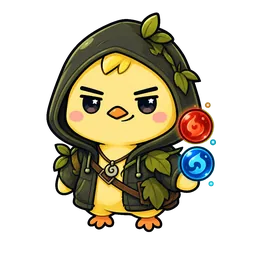
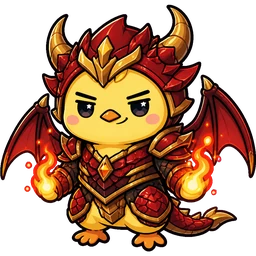
서바이벌: 프싱을 쉬바나 구조로 — 분노 게이지·용 변신 패시브 + 쌍둥이 이빨 + 새 그림 + 시험 + 패치노트
Claude-Session: https://claude.ai/code/session_018GzTivP446Z4KhefLmvcv5

diff --git a/tests/survivors_shyvana_test.py b/tests/survivors_shyvana_test.py
@@ -1,0 +1,68 @@
+# -*- coding: utf-8 -*-
+"""🐲 프싱 「쉬바나 코스프레」 검증 — 분노 게이지 · 용 변신 · 🔥 쌍둥이 이빨.  사용: python3 tests/survivors_shyvana_test.py
+원본 survivors.html 은 건드리지 않고 임시 사본(survivors_x.html)에만 훅을 꽂는다."""
+import asyncio, sys, os
+sys.path.insert(0, os.path.dirname(os.path.abspath(__file__)))
+import sv_harness as H
+from playwright.async_api import async_playwright
+FAILS = []; N = [0]
+def check(name, cond, extra=''):
+    N[0] += 1
+    print(('PASS ' if cond else 'FAIL ') + name + ((' — ' + str(extra)) if extra != '' else ''), flush=True)
+    if not cond: FAILS.append(name)
+
+async def main():
+    H.make_copy(); srv = H.Srv()
+    async with async_playwright() as p:
+        b = await H.launch(p)
+        ctx, pg, errs = await H.new_page(b, srv.port)
+        # ── 1. 시작 상태 · 게이지가 피해·처치로 오른다
+        r = await pg.evaluate("""()=>{const x=__p6x,o={};x.CH_set('psg');x.start();const S=x.S;
+          o.init={shv:x.CH.shv,w:Object.keys(S.w),rg:S.rg,dT:S.dT,camp:x.CH.camp};
+          const e=x.spawnEnemy(0,1);e.hp=e.mhp=1e9;e.x=S.p.x+500;e.y=S.p.y;
+          S.rgB=2.5;x.hurt(e,5);o.hit=S.rg;
+          for(let i=0;i<50;i++)x.hurt(e,5);o.burst=S.rg;   // 한꺼번에 때려도 버킷이 막는다
+          S.rg=0;S.rgB=2.5;const k=x.spawnEnemy(0,1);k.hp=1;k.x=S.p.x+500;k.y=S.p.y;x.hurt(k,50);o.kill=S.rg;
+          return o}""")
+        check('시작: 쉬바나 패시브(shv) · camp 없음 · 시작 무기 twin · 게이지 0', r['init']['shv'] == 1 and not r['init']['camp'] and r['init']['w'] == ['twin'] and r['init']['rg'] == 0 and r['init']['dT'] == 0, r['init'])
+        check('피해를 주면 게이지가 오른다', r['hit'] > 0, r['hit'])
+        check('한꺼번에 때려도 흡수량 상한(버킷)이 있다', r['burst'] <= 2.6, r['burst'])
+        check('처치하면 게이지가 오른다(처치 +1 이상)', r['kill'] >= 1, r['kill'])
+        # ── 2. 가득 차면 변신 · 크기 · 이동속도 · 화염 오라 · 받는 피해 감소
+        r = await pg.evaluate("""()=>{const x=__p6x,o={};x.CH_set('psg');x.start();const S=x.S;S.w={};S.p.hp=S.p.mhp=1e6;
+          const walk=sec=>{const x0=S.p.x;x.keys={KeyD:true};for(let i=0;i<Math.round(sec*30);i++)x.update(1/30);x.keys={};return S.p.x-x0;};
+          o.walk0=walk(.5);
+          const e=x.spawnEnemy(0,1);e.hp=e.mhp=1e9;e.x=S.p.x+60;e.y=S.p.y;e.sp=0;S.live=[e];
+          const h0=S.p.hp;S.p.inv=0;x.hitP(100,'');o.dmg0=h0-S.p.hp;S.p.inv=0;
+          S.rg=100;x.update(1/30);o.on=S.dT;o.dN=S.dN;
+          e.x=S.p.x+60;e.y=S.p.y;const eh=e.hp;for(let i=0;i<40;i++){x.update(1/30);e.x=S.p.x+60;e.y=S.p.y;}o.aura=eh-e.hp;
+          o.size=S.dS;o.walk1=walk(.5);
+          S.p.inv=0;const h1=S.p.hp;x.hitP(100,'');o.dmg1=h1-S.p.hp;
+          S.rg=0;const g0=S.rg;S.rgB=2.5;x.hurt(e,5);o.gainOn=S.rg-g0;   // 변신 중엔 게이지가 더 차지 않는다
+          let t=0;while(S.dT>0&&t<20*30){x.update(1/30);t++;}o.dur=t/30;
+          for(let i=0;i<60;i++)x.update(1/30);o.after={rg:S.rg,dT:S.dT,dS:S.dS};
+          return o}""")
+        check('가득 차면 변신 시작(지속 약 11초)', r['on'] > 10 and r['dN'] == 1, (r['on'], r['dN']))
+        check('변신 중 몸이 커진다(1.0 → 1.4 이상)', r['size'] > 1.4, r['size'])
+        check('변신 중 이동속도 증가(+20% 안팎)', 1.12 < r['walk1'] / r['walk0'] < 1.3, (r['walk0'], r['walk1']))
+        check('화염 오라가 곁의 적에게 지속 피해', r['aura'] > 20, r['aura'])
+        check('받는 피해 -30%', abs(r['dmg1'] / r['dmg0'] - .7) < .02, (r['dmg0'], r['dmg1']))
+        check('변신 중엔 게이지가 오르지 않는다', r['gainOn'] == 0, r['gainOn'])
+        check('지속시간 뒤 변신이 꺼지고 게이지 0 · 크기 원상', 9.0 < r['dur'] < 9.6 and r['after']['rg'] < 5 and r['after']['dT'] <= 0 and r['after']['dS'] < 1.05, (r['dur'], r['after']))
+        # ── 3. 쌍둥이 이빨 Lv1~8 · 각성 · 마스터 · 변신 중/평상시 — 예외 없음 · 피해를 낸다
+        r = await pg.evaluate("""()=>{const x=__p6x,o={};const res={};
+          for(const ev of [0,1])for(const drg of [0,1])for(let L=1;L<=8;L++){
+            x.CH_set('psg');x.start();const S=x.S;S.w.twin=L;if(ev)S.ev.twin=1;S.tier.twin=5;x.tkCalc();S.p.hp=S.p.mhp=1e9;S.dmgBy={};
+            if(drg){S.rg=100;}
+            for(let i=0;i<40;i++){const e=x.spawnEnemy(0,1);e.hp=e.mhp=1e9;e.x=S.p.x+60+(i%8)*18;e.y=S.p.y+((i/8|0)-2)*30;e.sp=0;}
+            let ok=true;try{for(let i=0;i<30*8;i++){if(x.state==='lvup'){x.pick(x.CUR[0]);continue;}if(x.state!=='play'){x.resume();continue;}S.p.hp=S.p.mhp;x.update(1/30);if(i%3==0)x.draw();}}catch(er){ok=String(er);}
+            res[ev+'_'+drg+'_'+L]={ok,dmg:S.dmgBy.twin||0,drg:S.dT>0||S.dN>0};}
+          return res}""")
+        bad = {k: v for k, v in r.items() if v['ok'] is not True}
+        check('쌍둥이 이빨 Lv1~8 × 각성 유무 × 변신 유무 예외 없음', not bad, bad)
+        check('모든 조합에서 쌍둥이 이빨이 피해를 낸다', all(v['dmg'] > 0 for v in r.values()), [k for k, v in r.items() if v['dmg'] <= 0])
+        check('변신 조합은 실제로 변신했다', all(v['drg'] for k, v in r.items() if k.split('_')[1] == '1'))
+        check('콘솔·페이지 에러 0', not errs, errs[:3])
+        await b.close()
+    print(f'\n{N[0]-len(FAILS)}/{N[0]} 통과'); sys.exit(1 if FAILS else 0)
+asyncio.run(main())

diff --git a/tests/survivors_p6_test.py b/tests/survivors_p6_test.py
@@ -195,8 +195,6 @@ async def main():
           {const S=mk('kyo');S.rel.sg_kyo=3;S.p.hp=10;const B={key:'t',nm:'t',r:20,sp:0,d:1,hp:10,xp:1};const e=x.spawnEnemy(0,1,B);e.x=S.p.x+50;e.y=S.p.y;e.hp=1;x.hurt(e,5);o.kyo=S.p.hp-10;}
           // ddmj: 가시 방패
           {const S=mk('ddmj');S.rel.sg_ddmj=3;const es=[];for(let i=0;i<10;i++)es.push(dummy(S,40+i*3,0,1e6));S.live=es;S.p.inv=0;x.hitP(100,'');o.ddmj={hit:es.filter(e=>e.hp<e.mhp).length,dmg:1e6-es[0].hp};}
-          // psg: 버프 길이
-          {const S=mk('psg');S.rel.sg_psg=3;S.campT=20.1;x.CH.camp=1;const relTick=x.relTick;o.psgBL=null;}
           return o;}""")
         check('🐤 논란 점화: 처치 시 폭발(0.5초 간격)', r['brj'] >= 1, r['brj'])
         check('🔫 한 방 장전: 치명타 7번에 1번 추가 일격 후 카운터 리셋', r['jjg']['c'] == 0 and r['jjg']['rel'] > 0, r['jjg'])
@@ -209,12 +207,12 @@ async def main():
         check('🧱 가시 방패: 피격 시 최대 8마리에게 반사', r['ddmj']['hit'] == 8 and r['ddmj']['dmg'] > 100, r['ddmj'])
         # 캐릭터 고유 능력 확장(psg·sr·ddo·tw·yj)
         r = await pg.evaluate("""()=>{const x=__p6x;const o={};
-          {const camp=(lvl)=>{x.CH_set('psg');x.start();const S=x.S;S.rel.sg_psg=lvl;let mx=0;for(let i=0;i<30*30;i++){if(x.state==='lvup'){x.pick(x.CUR[0]);continue;}if(x.state!=='play'){x.resume();continue;}S.p.hp=S.p.mhp;x.update(1/30);mx=Math.max(mx,S.campL);}return mx;};o.psg=camp(3);o.psg0=camp(0);}
+          {const camp=(lvl)=>{x.CH_set('psg');x.start();const S=x.S;S.rel.sg_psg=lvl;S.rg=100;let mx=0;for(let i=0;i<30*30;i++){if(x.state==='lvup'){x.pick(x.CUR[0]);continue;}if(x.state!=='play'){x.resume();continue;}S.p.hp=S.p.mhp;x.update(1/30);mx=Math.max(mx,S.dT);}return mx;};o.psg=camp(3);o.psg0=camp(0);}
           {x.CH_set('sr');x.start();const S=x.S;S.rel.sg_sr=3;S.staffT=0;x.update(1/30);o.sr={cd:S.staffT,life:Math.max(...x.CHARS?[0]:[0])};const al=window.__p6x;o.srAlly=null;}
           {x.CH_set('ddo');x.start();const S=x.S;S.rel.sg_ddo=3;S.proomT=0;x.update(1/30);o.ddo=S.proom.R;x.start();const S2=x.S;S2.proomT=0;x.update(1/30);o.ddo0=S2.proom.R;}
           {x.CH_set('tw');x.start();const S=x.S;S.p.hp=S.p.mhp*.05;const e=x.spawnEnemy(0,1);e.hp=e.mhp=1e9;e.x=S.p.x+30;e.y=S.p.y;const h=e.hp;x.hurt(e,100);const d0=h-e.hp;S.rel.sg_tw=3;const h2=e.hp;x.hurt(e,100);const d1=h2-e.hp;o.tw=[d0,d1];}
           return o;}""")
-        check('🌿 버프 연장: 버프 지속 15→18.5초', abs(r['psg0'] - 15) < 1.2 and 17.2 <= r['psg'] <= 18.6, (r['psg0'], r['psg']))
+        check('🐲 타오르는 비늘: 용 변신 지속 11→14.5초', abs(r['psg0'] - 11) < .3 and 14.2 <= r['psg'] <= 14.6, (r['psg0'], r['psg']))
         check('🕷 공지 도배: 스탭 주기 20→17초', abs(r['sr']['cd'] - 17) < .1, r['sr'])
         check('☠ 공개 재판: 방 범위 +30%', abs(r['ddo'] / r['ddo0'] - 1.3) < 1e-6, r)
         check('💔 집착의 불꽃: 체력 5%에서 피해 보너스 상한 +60%→+90%', r['tw'][0] > 0 and abs(r['tw'][1] / r['tw'][0] - (1 + .9) / (1 + .6)) < .02, r['tw'])

diff --git a/tests/sv_harness.py b/tests/sv_harness.py
@@ -8,7 +8,7 @@ HOOK = r"""window.__p6x={get S(){return S},get state(){return state},set state(v
 update,draw,pick,resume,offers,newRun,start,REL,CHARS,WEAP,TIERS,tkCalc,synCalc,SRVUNL,srvUnl,canPick,CH_set(k){CH=CHARS.find(c=>c.k===k)},get CH(){return CH},invGrant,hitP,hpMul,atkMul,bossMul,MIN,endRun,contEndless,
 openChest,RN,seedOf,kstDate,applyUp,cardOf,get RSEED(){return RSEED},enemies,gems,props,items,shots,eshots,hazards,texts,RIFT_CACHE,gainXp,hurt,spawnEnemy,dailyGet,show,
 LOW,sgThorns,sgTick,relTick,mapTick,WIN_T,END_T,INV_CAP,renderBoard,renderDaily,loadBoard,renderRoster,getProg,setProg,hardBest,
-setCap(v){INV_CAP=v},get BTAB(){return BTAB},set BTAB(v){BTAB=v},get ME(){return ME},set ME(v){ME=v}};
+SHV,rgAdd,shvStart,setCap(v){INV_CAP=v},get BTAB(){return BTAB},set BTAB(v){BTAB=v},get ME(){return ME},set ME(v){ME=v}};
 window.__adv=function(sec,opt){opt=opt||{};const x=window.__p6x,dt=opt.dt||1/30,n=Math.round(sec/dt);let nc=0;
  for(let i=0;i<n;i++){const st=x.state;
   if(st==='result')return 'result';

diff --git a/tests/survivors_unique_weapons_test.py b/tests/survivors_unique_weapons_test.py
@@ -14,7 +14,7 @@ def check(name, cond, extra=''):
 
 # 캐릭터 키 → (고유 무기 키, 시작 레벨)
 UNIQ = {'brj': ('quill', 1), 'jjg': ('tempo', 2), 'mms': ('fuse', 1), 'hrb': ('slime', 1), 'ssu': ('cart', 1), 'amd': ('heart', 1), 'ildj': ('jhin', 1),
-        'kyo': ('whop', 1), 'ddmj': ('bash', 1), 'psg': ('totem', 1), 'sr': ('stamp', 1), 'ddo': ('chain', 2), 'tw': ('ram', 2),
+        'kyo': ('whop', 1), 'ddmj': ('bash', 1), 'psg': ('twin', 1), 'sr': ('stamp', 1), 'ddo': ('chain', 2), 'tw': ('ram', 2),
         'yumi': ('snack', 1), 'eom': ('eom', 1)}   # yumi·eom 은 맛동산 상점(서버 구매) 캐릭터
 COMMON_OLD = ['feed', 'egg', 'fryer', 'can', 'sushi', 'pan', 'kbd', 'spk', 'shrimp']   # 예전에 시작 무기로 쓰이던 공용 무기
 
